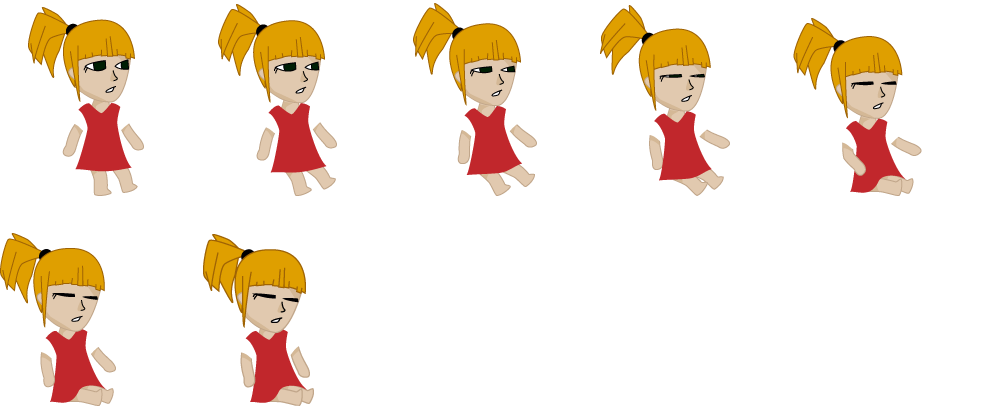
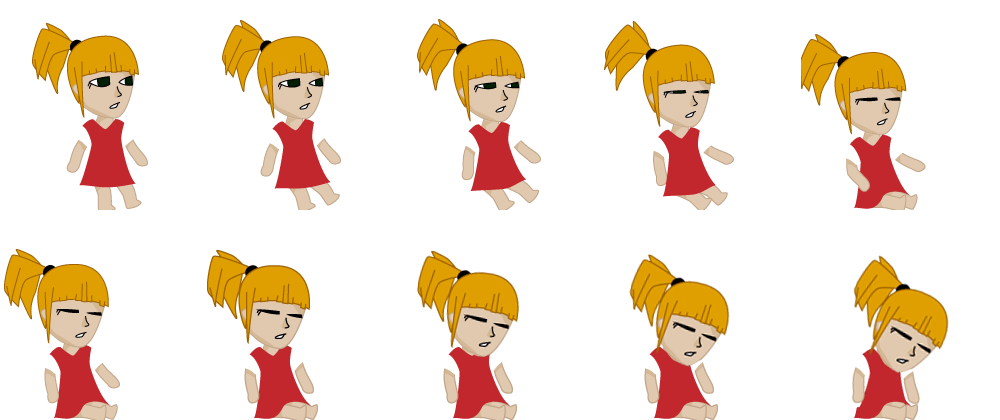
Dying animation with more frames. If you're falling and grab the ladder, you don't die anymore. Respawn time shorter.

diff --git a/Nobots/Nobots/Nobots/Elements/Character.cs b/Nobots/Nobots/Nobots/Elements/Character.cs
@@ -167,19 +167,13 @@ namespace Nobots.Elements
         protected void torso_OnSeparation(Fixture fixtureA, Fixture fixtureB)
         {
             if (fixtureB.Body == touchedBody)
-            {
                 touchedBody = null;
-                Console.WriteLine("untouched!");
-            }
         }
 
         protected bool torso_OnCollision(Fixture fixtureA, Fixture fixtureB, Contact contact)
         {
             if (touchedBody == null && (fixtureB.Body.UserData as IPullable != null || fixtureB.Body.UserData as IPushable != null))
-            {
-                Console.WriteLine("changed touched body!");
                 touchedBody = fixtureB.Body;
-            }
 
             return true;
         }
@@ -198,7 +192,7 @@ namespace Nobots.Elements
             prevVelocity = velocity;
             velocity = body.LinearVelocity;
 
-            if (Math.Abs(prevVelocity.Y - velocity.Y) > 20 && !(this is Energy))
+            if (Math.Abs(prevVelocity.Y - velocity.Y) > 20 && !(this is Energy) && !(state is ClimbingCharacterState) && !(state is DyingCharacterState))
                 State = new DyingCharacterState(scene, this);
 
             updateLadder();

diff --git a/Nobots/Nobots/Nobots/Elements/DyingCharacterState.cs b/Nobots/Nobots/Nobots/Elements/DyingCharacterState.cs
@@ -22,7 +22,7 @@ namespace Nobots.Elements
             texture = scene.Game.Content.Load<Texture2D>("dyingGas");
             columns = 5;
             rows = 2;
-            framesInLastRow = 1;
+            framesInLastRow = 4;
             characterWidth = texture.Width / columns;
             characterHeight = texture.Height / rows;
             character.texture = texture;
@@ -35,7 +35,7 @@ namespace Nobots.Elements
             totalSeconds += (float)gameTime.ElapsedGameTime.TotalSeconds;
             if (animating)
                 changeIdleTextures(gameTime);
-            if (totalSeconds > 5 && !dead)
+            if (totalSeconds > 3 && !dead)
             {
                 //TODO: this should be a method in Scene
                 //save the last checkpoint position in a Vector2
